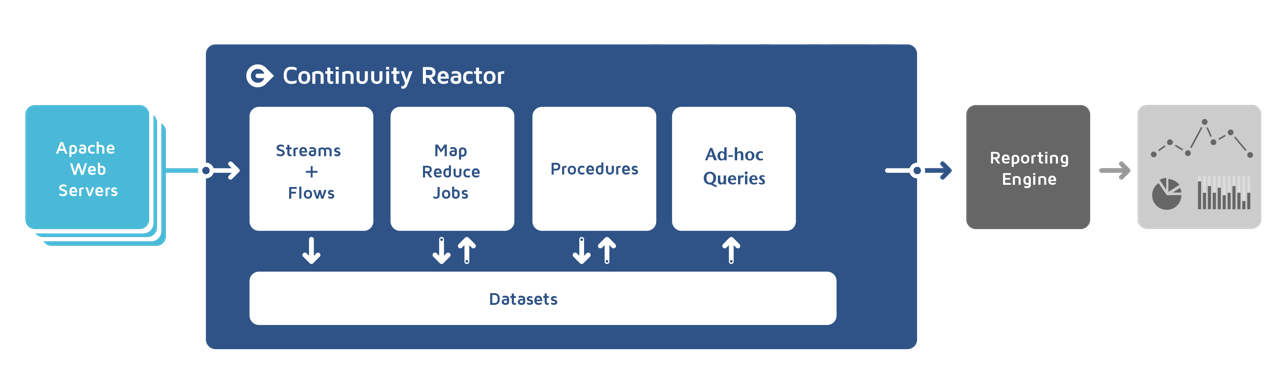
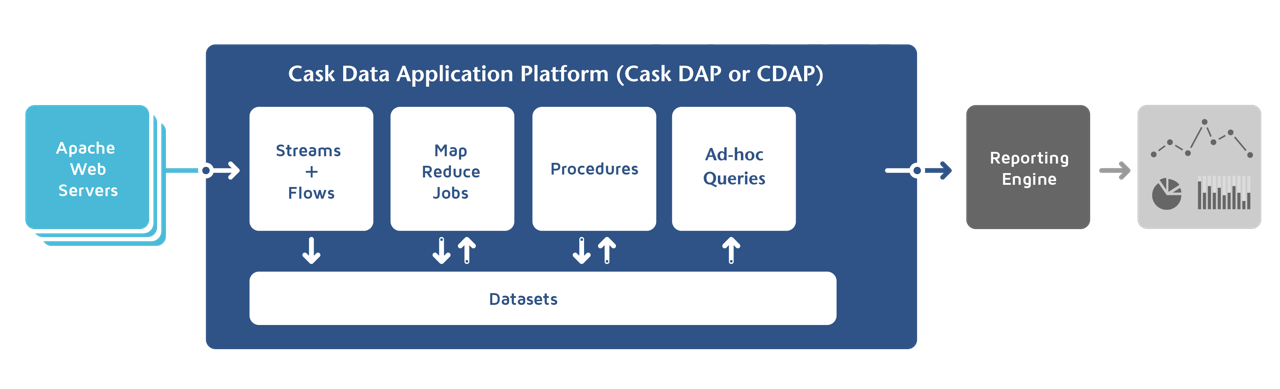
Added tweaks to set the code highlighting. In general, code highlighting is "java"; whenever it gets changed to something else, ("console", "xml"), turn it back to java when done. That makes it easier to add sections. Changed references to "Reactor" in two illustrations; though the font, color and s

Changed region(s): [[0.1875, 0.1542, 0.6562, 0.2159]]

diff --git a/docs/developer-guide/source/operations.rst b/docs/developer-guide/source/operations.rst
@@ -450,8 +450,8 @@ Introduction
 ------------
 
 The Command-Line Interface (CLI) provides methods to interact with the CDAP server from within a shell,
-similar to HBase shell or ``bash``. It is located within the SDK, at ``bin/cdap-cli`` as a bash script. It is also
-packaged in the SDK as a JAR file, at ``bin/cdap-cli.jar``.
+similar to HBase shell or ``bash``. It is located within the SDK, at ``bin/cdap-cli`` as either a bash
+script or a Windows ``.bat`` file. It is also packaged in the SDK as a JAR file, at ``bin/cdap-cli.jar``.
 
 Usage
 -----
@@ -461,7 +461,16 @@ The CLI may be used in two ways: interactive mode and non-interactive mode.
 Interactive Mode
 ----------------
 
-To run the CLI in interactive mode, run the ``cdap-cli`` executable with no arguments from the terminal.
+.. highlight:: console
+
+To run the CLI in interactive mode, run the ``cdap-cli`` executable with no arguments from the terminal::
+
+  $ /bin/cdap-cli
+
+or, on Windows::
+
+  ~SDK> bin\cdap-cli.bat
+
 The executable should bring you into a shell, with this prompt::
 
   cdap (localhost:10000)>
@@ -556,6 +565,8 @@ Here are all of the available commands:
 - ``stop mapreduce <program-id>``: Stops a MapReduce job
 - ``truncate dataset instance``: Truncates a Dataset
 - ``truncate stream``: Truncates a Stream
+
+.. highlight:: java
 
 Logging
 =======
@@ -678,6 +689,8 @@ the default “Hello” to a customized “Good Morning” by passing a runtime 
 Scaling Instances
 =================
 
+.. highlight:: console
+
 Scaling Flowlets
 ----------------
 You can query and set the number of instances executing a given Flowlet
@@ -741,6 +754,8 @@ in the Flow *WhoFlow* of the application *HelloWorld*::
 with the arguments as a JSON string in the body::
 
   { "instances" : 2 }
+
+.. highlight:: java
 
 Where to Go Next
 ================

diff --git a/docs/developer-guide/source/security.rst b/docs/developer-guide/source/security.rst
@@ -56,6 +56,9 @@ security.server.ssl.keystore.password        <password>
 
 Enabling Access Logging
 ========================
+
+.. highlight:: console
+
 To enable access logging, add the following to ``logback.xml`` (typically under ``/etc/cdap/conf/``) ::
 
     <appender name="AUDIT" class="ch.qos.logback.core.rolling.RollingFileAppender">
@@ -146,6 +149,8 @@ such as ``security.authentication.handler.hostname``, will also be used by the h
 These properties, without the prefix, will be used to instantiate the ``javax.security.auth.login.Configuration`` used
 by the ``LoginModule``.
 
+.. highlight:: java
+
 Custom Authentication
 ----------------------
 To provide a custom authentication mechanism you may create your own ``AuthenticationHandler`` by overriding
@@ -180,6 +185,9 @@ additional dependency jars) to the ``security/lib/`` directory within your Cask 
 
 Example Configuration
 =======================
+
+.. highlight:: xml
+
 This is what your ``cdap-site.xml`` could include when configured to enable security, SSL, and
 authentication using LDAP::
 
@@ -255,6 +263,9 @@ authentication using LDAP::
 
 Testing Security
 =================
+
+.. highlight:: console
+
 To ensure that you've configured security correctly, run these simple tests to verify that the
 security components are working as expected:
 
@@ -492,6 +503,7 @@ Comments
 - The ``auth_uri`` value in the error responses indicates where the authentication server(s) are
   running, allowing clients to discover instances from which they can obtain access tokens.
 
+.. highlight:: java
 
 Where to Go Next
 ================

diff --git a/docs/developer-guide/source/debugging.rst b/docs/developer-guide/source/debugging.rst
@@ -213,6 +213,8 @@ For more information, see `Attaching a Debugger`_.
 Debugging an Application in Distributed DAP
 -----------------------------------------------
 
+.. highlight:: console
+
 In distributed mode, an application does not run in a single JVM. Instead, its programs
 are dispersed over multiple—if not many—containers in the Hadoop cluster. There is no 
 single place to debug the entire application. 
@@ -280,6 +282,8 @@ The corresponding HTTP requests for the ``RetrieveCounts`` Procedure of this app
   GET <base-url>/apps/WordCount/procedures/RetrieveCounts/live-info
 
 Analysis of the response would give you the host names and debugging ports for all instances of the Procedure.
+
+.. highlight:: java
 
 Attaching a Debugger
 --------------------
@@ -430,6 +434,9 @@ system can become slow if such a situation occurs.
 
 Dumping the Transaction Manager
 ...............................
+
+.. highlight:: console
+
 CDAP comes bundled with a script that allows you to dump the state of the internal
 transaction manager into a local file to allow further investigation. If your DAP Instance
 tends to become slow, you can use this tool to detect the incriminating transactions.
@@ -474,6 +481,8 @@ use this command to invalidate it::
 Invalidating a transaction when we know for sure that its writes should
 be invalidated is useful, because those writes will then be removed
 from the concerned Tables.
+
+.. highlight:: java
 
 Where to Go Next
 ================

diff --git a/docs/developer-guide/source/quickstart.rst b/docs/developer-guide/source/quickstart.rst
@@ -1,6 +1,8 @@
 .. :author: Cask, Inc.
    :description: Introducing new developers to the Cask Data Application Platform
 
+.. highlight:: console
+
 ================
 CDAP Quick Start
 ================
@@ -104,6 +106,8 @@ may help with problems using *maven*.)
 Open the source file (``ResponseCodeAnalyticsApp.java``) in your preferred editor,
 and make the following changes.
 
+.. highlight:: java
+
 After the line ``private OutputEmitter<Integer> output;`` insert this code::
 
   // Emitter for emitting client IP address to the next Flowlet
@@ -154,6 +158,8 @@ To the class ``StatusCodeProcedure``, add the following ``getClientIPCounts`` me
 
 The new ``getClientIPCounts`` method that will query the Dataset (storage) for the IP address occurrences.
 
+.. highlight:: console
+
 After you make your code changes to ``ResponseCodeAnalyticsApp.java``, you can build the .JAR file by running::
 
   mvn clean package
@@ -188,6 +194,7 @@ and their counts::
 Of course, if you have performed additional injections, your results will be different.
 The total should match the number of injections you made after you restarted the application.
 
+.. highlight:: java
 
 Where to Go Next
 ================

diff --git a/docs/developer-guide/source/rest.rst b/docs/developer-guide/source/rest.rst
@@ -1,6 +1,8 @@
 .. :author: Cask, Inc.
    :description: HTTP RESTful Interface to the Cask DAP
 
+.. highlight:: console
+
 =====================
 CDAP HTTP RESTful API
 =====================
@@ -9,6 +11,8 @@ CDAP HTTP RESTful API
 .. rst2pdf: config _templates/pdf-config
 .. rst2pdf: stylesheets _templates/pdf-stylesheet
 .. rst2pdf: build ../build-pdf/
+
+.. highlight:: console
 
 Introduction
 ============
@@ -2467,6 +2471,7 @@ HTTP Responses
    * - ``200 OK``
      - The event successfully called the method, and the body contains the results
 
+.. highlight:: java
 
 .. rst2pdf: CutStart
 

diff --git a/docs/developer-guide/source/examples/responseCodeAnalytics.rst b/docs/developer-guide/source/examples/responseCodeAnalytics.rst
@@ -67,6 +67,9 @@ while names used for *Flows*, *Flowlets* and *Procedures* need to be unique only
 
 Streams for Data Collection
 -------------------------------
+
+.. highlight:: console
+
 Streams are the primary means for bringing data from external systems into CDAP in real-time.
 
 Data can be written to streams using the RESTful API. In this example, a Stream named *logEventStream* is used to 
@@ -233,6 +236,7 @@ Either:
 
   On Windows, run ``~SDK> bin\app-manager.bat stop``
 
+.. highlight:: java
 
 Downloading the Example
 =======================

diff --git a/docs/developer-guide/source/examples/purchase.rst b/docs/developer-guide/source/examples/purchase.rst
@@ -107,6 +107,9 @@ This procedure has a ``history`` method to obtain the purchase history of a give
 
 Building and Running the Application and Example
 ================================================
+
+.. highlight:: console
+
 In this remainder of this document, we refer to the CDAP runtime as "CDAP", and the
 example code that is running on it as an "Application".
 
@@ -289,6 +292,7 @@ or:
 
   On Windows, run ``~SDK> bin\app-manager.bat stop``
 
+.. highlight:: java
 
 Downloading the Example
 =======================

diff --git a/docs/developer-guide/source/examples/trafficAnalytics.rst b/docs/developer-guide/source/examples/trafficAnalytics.rst
@@ -148,6 +148,9 @@ and in an actual application that would be common.
 
 Building and Running the Application and Example
 ================================================
+
+.. highlight:: console
+
 In this remainder of this document, we refer to the Cask Data Application Platform runtime as "CDAP", and the
 example code that is running on it as an "Application".
 
@@ -282,6 +285,7 @@ Either:
 
   On Windows, run ``~SDK> bin\app-manager.bat stop``
 
+.. highlight:: java
 
 Downloading the Example
 =======================

diff --git a/docs/developer-guide/source/programming.rst b/docs/developer-guide/source/programming.rst
@@ -24,6 +24,7 @@ For more information beyond this document, see the
 `Cask.co <http://cask.co>`__ `Developers website <http://cask.co/developers>`_ as well as in your
 CDAP installation directory.
 
+.. highlight:: console
 
 Conventions
 -----------
@@ -107,6 +108,8 @@ compiled, deploy it to the Cask DAP by just dragging and
 dropping it anywhere on the CDAP Console and it will be deployed.
 
 The remainder of this document covers what to put in that JAR file.
+
+.. highlight:: java
 
 .. _applications:
 

diff --git a/docs/developer-guide/source/examples/pageViewAnalytics.rst b/docs/developer-guide/source/examples/pageViewAnalytics.rst
@@ -68,6 +68,9 @@ of the Application are tied together by the class ``PageViewAnalyticsApp``::
 
 ``PageViewStore``: Custom Data Storage
 --------------------------------------
+
+.. highlight:: console
+
 The processed data is stored in a custom Dataset, ``PageViewStore``, with these
 methods defined:
 
@@ -225,6 +228,7 @@ Either:
 
   On Windows, run ``~SDK> bin\app-manager.bat stop``
 
+.. highlight:: java
 
 Downloading the Example
 =======================

diff --git a/docs/developer-guide/source/java_client.rst b/docs/developer-guide/source/java_client.rst
@@ -2,6 +2,8 @@
  Java Client API
 =================
 
+.. highlight:: console
+
 Introduction
 ============
 
@@ -81,3 +83,5 @@ DatasetClient
 
   // Delete a Dataset
   datasetClient.delete("someDataset");
+  
+  .. highlight:: java
